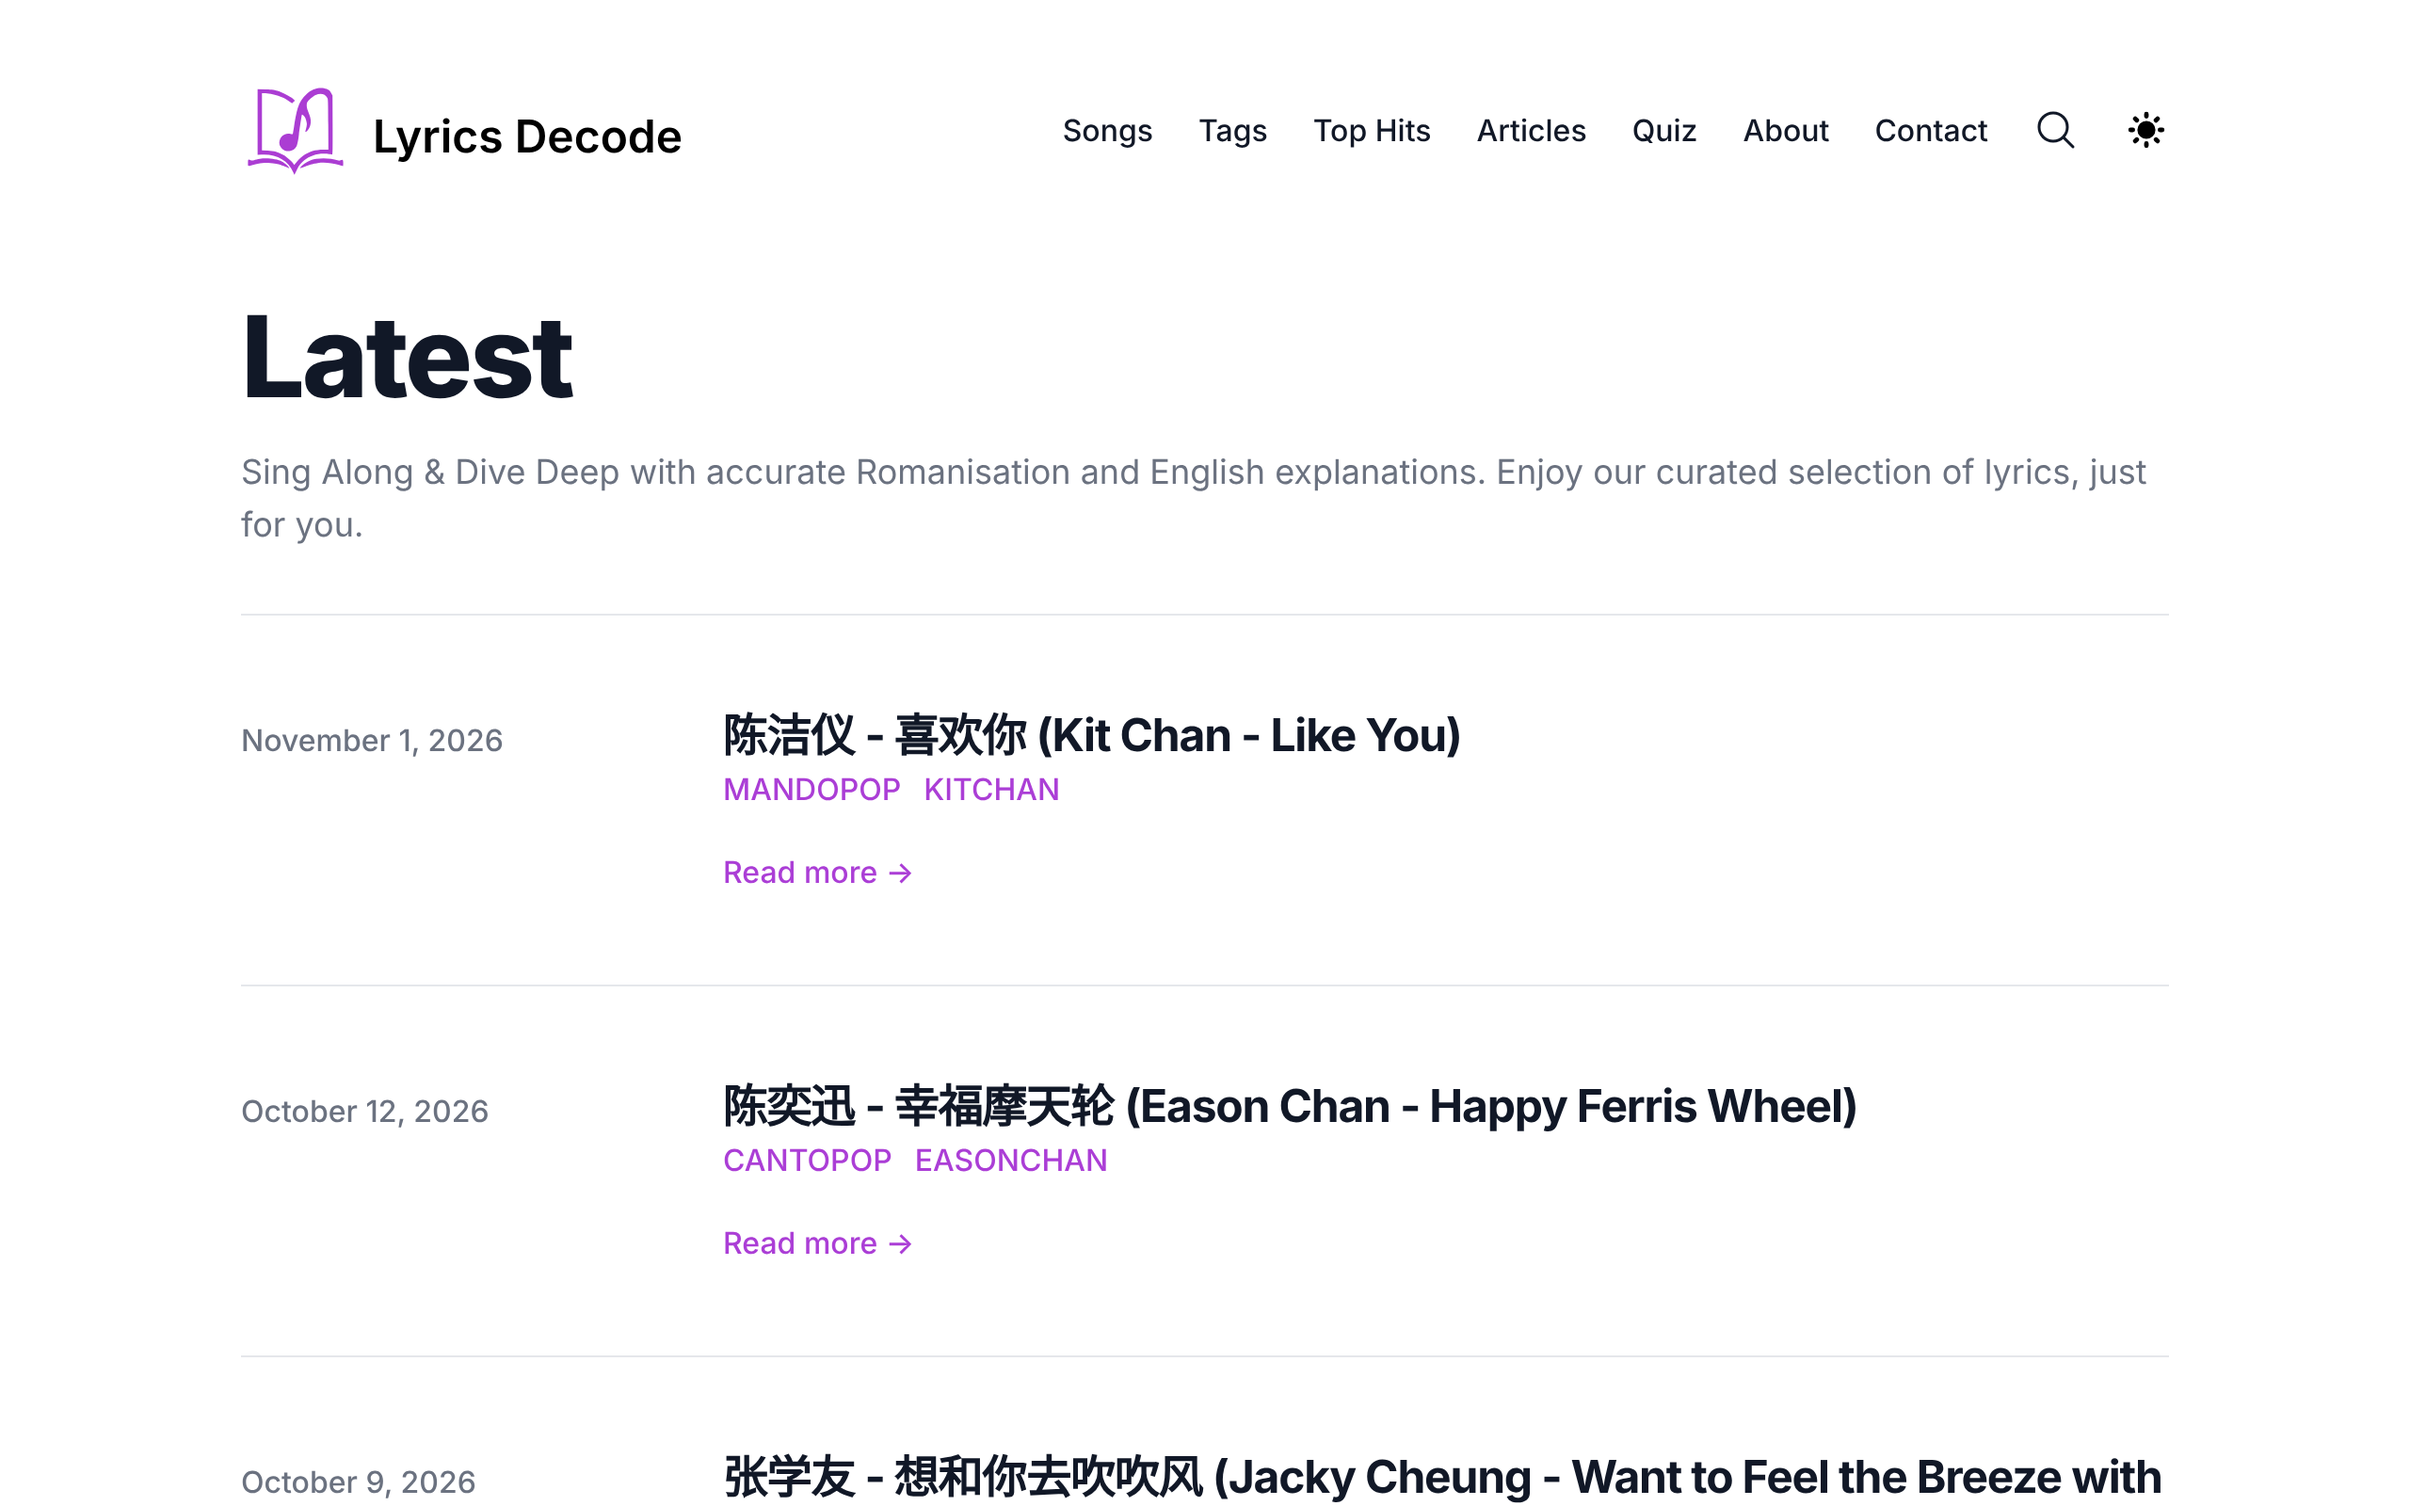
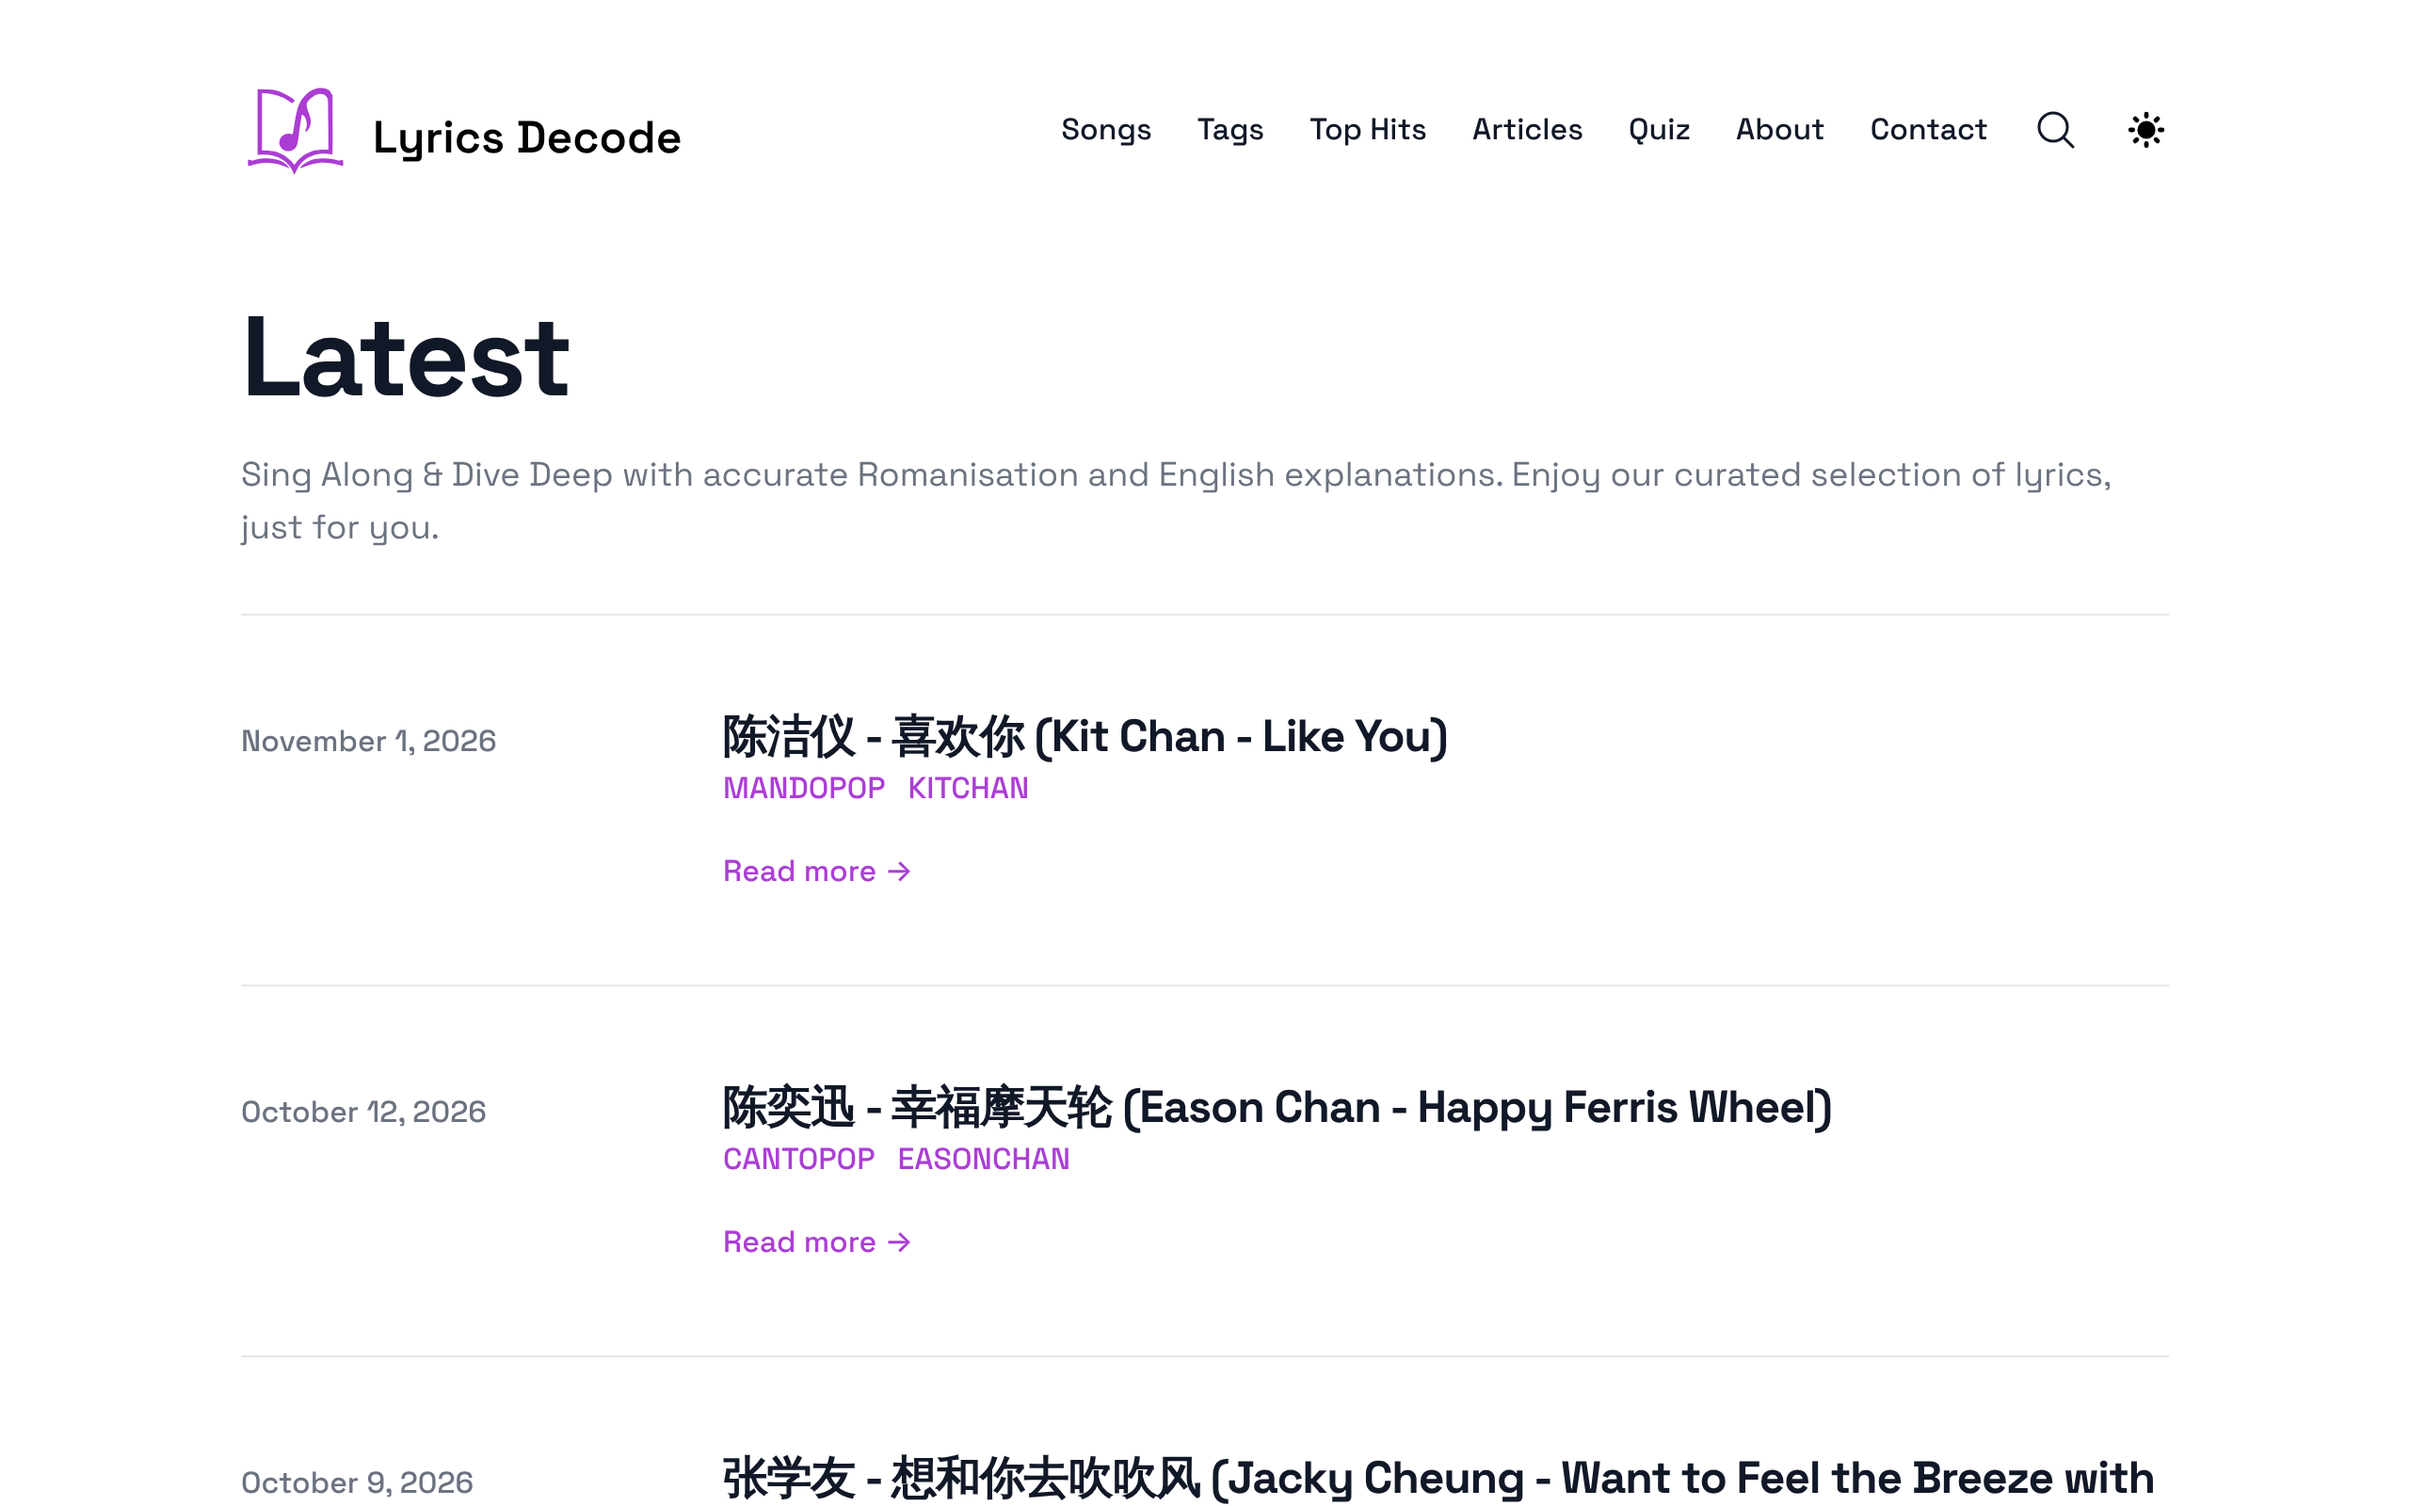
Project screenshots follow the site theme
- New optional screenshotDark field; the card shows the light or dark
  image to match the theme (the hidden one is not downloaded).
- Light and dark pairs at matching framing for Lyricsdecode and Decide
  A Place (captured from the live sites, ads blocked) and AI Verdict
  (from its own gallery, cropped to the same frame).
- Test that the card swaps images with the theme.

Claude-Session: https://claude.ai/code/session_019i5JAhHSXXS5qtV73q9BJR

diff --git a/tests/smoke.spec.ts b/tests/smoke.spec.ts
@@ -70,3 +70,17 @@ test('logo scrolls to top without leaving a hash in the URL', async ({ page }) =
   await page.waitForFunction(() => window.scrollY === 0);
   expect(new URL(page.url()).hash).toBe('');
 });
+
+test('project screenshots follow the theme', async ({ page }) => {
+  const card = page.locator('article.work-card', { hasText: 'Lyricsdecode' });
+  for (const scheme of ['light', 'dark'] as const) {
+    await page.emulateMedia({ colorScheme: scheme });
+    await page.evaluate(() => { try { localStorage.removeItem('theme'); } catch {} });
+    await page.reload();
+    await card.scrollIntoViewIfNeeded();
+    const shown = card.locator('figure img:visible');
+    await expect(shown).toHaveCount(1);
+    const src = (await shown.getAttribute('src')) ?? '';
+    expect(src.includes('-dark'), `${scheme}: ${src}`).toBe(scheme === 'dark');
+  }
+});

diff --git a/src/content.config.ts b/src/content.config.ts
@@ -14,6 +14,7 @@ const projects = defineCollection({
       specs: z.array(z.object({ label: z.string(), value: z.string() })),
       stackLine: z.string(),
       screenshot: image().optional(), // local file in src/assets/projects
+      screenshotDark: image().optional(), // same framing, shown when the site is in dark mode
       screenshotUrl: z.string().url().optional(), // remote fallback until self-hosted
       screenshotAlt: z.string(),
       screenshotFit: z.enum(['cover', 'contain']).default('cover'),

diff --git a/BUILD-TASKS.md b/BUILD-TASKS.md
@@ -17,6 +17,7 @@
 - [x] GA4 (`G-83W1EJHLHE`) in the production build and seen in Realtime; GA4 admin settings done (key events skipped on purpose: events are still recorded under Reports → Engagement → Events)
 - [x] hello@raymond.sg routed to Gmail (Cloudflare Email Routing)
 - [x] Enterprise work section, mobile menu, privacy page (GA4, 14-month retention, no banner)
+- [x] Project screenshots follow the site theme (light and dark pairs for AI Verdict, Lyricsdecode, Decide A Place)
 
 ## Launch follow-ups
 
@@ -28,6 +29,7 @@ raymond.sg currently redirects visitors to a Cloudflare Access sign-in page (`ra
 - [ ] While there: **Settings** → **Build** → **Branch control**: decide on preview builds. If on, previews (with GA4) build for every branch, including `claude/...` ones.
 
 ## Next
+- [ ] 9toFIRE: add a dark screenshot (`screenshotDark`) once 9tofire.com is public; it is behind Cloudflare Access, so visitors clicking Visit hit a sign-in page
 - [ ] Email & Text Hash Generator: download its screenshot from WordPress into `src/assets/projects/` and switch `screenshotUrl` to `screenshot`
 - [ ] First run of "Update CNET stats" from the Actions tab; check the log for warnings (CNET may block bots)
 - [ ] Check before launch: 9toFIRE sends no user inputs to a server, and MD5 & SHA works fully offline (the Principles card says so)

diff --git a/src/content/projects/ai-verdict.md b/src/content/projects/ai-verdict.md
@@ -9,6 +9,7 @@ specs:
   - { label: Framework, value: "React · WXT" }
 stackLine: "React · WXT · Workers"
 screenshot: ../../assets/projects/ai-verdict.png
-screenshotAlt: "AI Verdict comparing answers from AI assistants side by side"
+screenshotDark: ../../assets/projects/ai-verdict-dark.png
+screenshotAlt: "AI Verdict dashboard with four AI assistants answering the same question"
 link: { label: Visit, href: "https://aiverdict.github.io/" }
 ---

diff --git a/src/content/projects/decideaplace.md b/src/content/projects/decideaplace.md
@@ -9,6 +9,7 @@ specs:
   - { label: Framework, value: "React · Vite" }
 stackLine: "React · Vite · Google Maps"
 screenshot: ../../assets/projects/decideaplace.png
+screenshotDark: ../../assets/projects/decideaplace-dark.png
 screenshotAlt: "Decide A Place search screen with place categories"
 link: { label: Visit, href: "https://decideaplace.com/" }
 ---

diff --git a/src/content/projects/lyricsdecode.md b/src/content/projects/lyricsdecode.md
@@ -11,6 +11,7 @@ specs:
   - { label: Hosting, value: Vercel }
 stackLine: "Next.js · MDX · Vercel"
 screenshot: ../../assets/projects/lyricsdecode.png
+screenshotDark: ../../assets/projects/lyricsdecode-dark.png
 screenshotAlt: "Lyricsdecode home page listing the latest song explainers"
 link: { label: Visit, href: "https://lyricsdecode.com/" }
 ---
